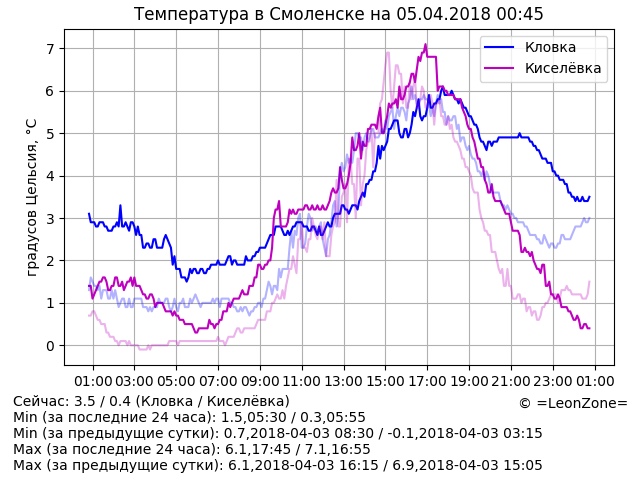
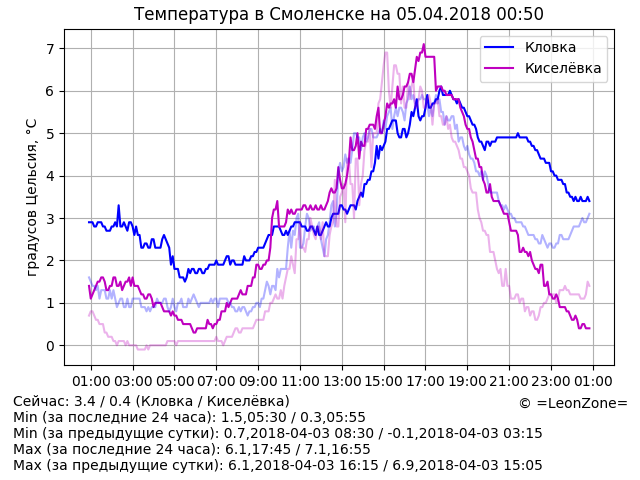
Update data

diff --git a/index.html b/index.html
@@ -14,7 +14,7 @@
 	<p align="center"><script>document.write("<img src=\"graph.png?rnd="+Math.random()+"\" alt=\"Температура в Смоленске\" align=\"middle\" width=\"640\" height=\"480\" />")</script>
 	<p hidden="true">
 <!-- textinfo -->
-Сейчас: 3.5 / 0.4 (Кловка / Киселёвка)
+Сейчас: 3.4 / 0.4 (Кловка / Киселёвка)
 Min (за последние 24 часа): 1.5,05:30 / 0.3,05:55
 Min (за предыдущие сутки): 0.7,2018-04-03 08:30 / -0.1,2018-04-03 03:15
 Max (за последние 24 часа): 6.1,17:45 / 7.1,16:55
